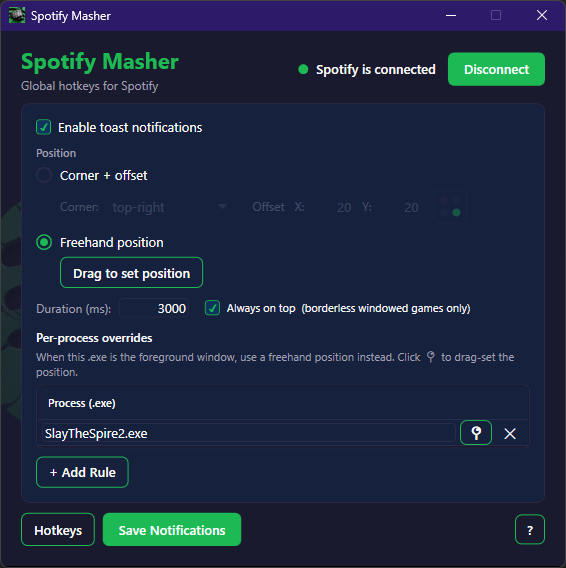
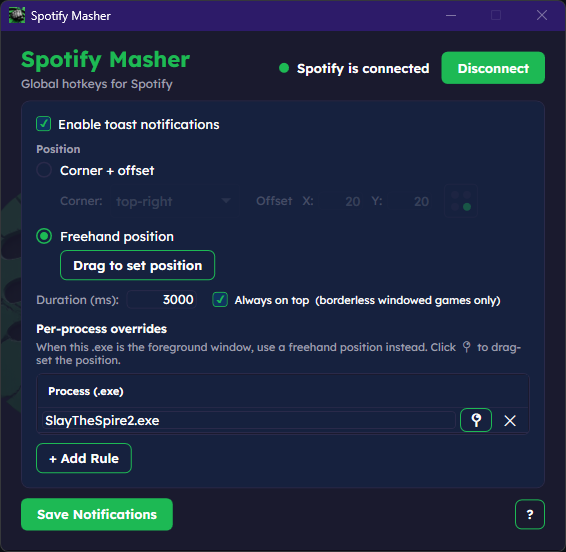
Update README for v1.5.1 Aurora release

diff --git a/README.md b/README.md
@@ -26,11 +26,37 @@ After a one-time login it runs silently in the background, refreshing its Spotif
 
 ## What's it look like?
 
-![Spotify Masher main window](screenshots/main.png?v=3)
+![Spotify Masher main window](screenshots/main.png?v=4)
 
-![Spotify Masher hotkey bindings](screenshots/hotkeys.png?v=1)
+![Spotify Masher hotkey bindings](screenshots/hotkeys.png?v=2)
 
-![Spotify Masher notification settings](screenshots/notifications.png?v=1)
+![Spotify Masher notification settings](screenshots/notifications.png?v=2)
+
+---
+
+## Toast notifications
+
+When you trigger an action, Spotify Masher shows a customisable toast. Pick from the **Aurora** preset family, or design your own with **Aurora Custom** — then preview it live at its real position on screen before saving.
+
+![Spotify Masher Toast Style pane](screenshots/toasts.png)
+
+<table>
+  <tr>
+    <td width="50%" align="center">
+      <img src="screenshots/toast-dropdown.png" alt="Aurora preset dropdown"><br>
+      <sub>Choose a preset from the Aurora family</sub>
+    </td>
+    <td width="50%" align="center">
+      <img src="screenshots/toast-custom.png" alt="Aurora Custom colour editor"><br>
+      <sub>Or build your own with Aurora Custom</sub>
+    </td>
+  </tr>
+</table>
+
+<p align="center">
+  <img src="screenshots/toast-example.png" alt="Aurora toast notification in action"><br>
+  <sub>The Aurora Glow toast — animated gradient border, glow halo, and drifting curtains</sub>
+</p>
 
 ---
 
@@ -45,6 +71,8 @@ After a one-time login it runs silently in the background, refreshing its Spotif
 - **Add to Playlist** — paste any Spotify playlist URL, URI, or ID
 - **Show Current Track** — toast with track name, artist, album, and cover art
 - **Toast notifications** — customisable position, duration, and per-app overrides
+- **Aurora toast themes** — a preset family (Aurora Masher, ADHD, Twilight, Lagoon, Ember, Frost) with animated glow borders and drifting aurora curtains, plus an **Aurora Custom** editor to pick your own colours
+- **Live preview** — preview your toast at its real on-screen position before saving
 - Starts silently in the system tray on launch
 - Silent token refresh — no re-login after the first time
 - Optional **Launch at Startup** from the tray menu
@@ -78,13 +106,13 @@ No installation required — run from wherever you like.
 ### 2. Connect Spotify Masher
 
 1. Launch `SpotifyMasher.exe`
-2. Paste your Client ID and click **Connect** — your browser will open for a one-time login
+2. Paste your Client ID and click **Authorise with Spotify** — your browser will open for a one-time login
 3. After authorising, the browser closes and the app is ready
 
 ### 3. Set up your hotkeys
 
 1. Open the app from the system tray
-2. Click **Edit Hotkeys**, add your hotkeys, and click **Save**
+2. Open the **Hotkeys** panel, add your hotkeys, and click **Save Hotkeys**
 
 ---
 